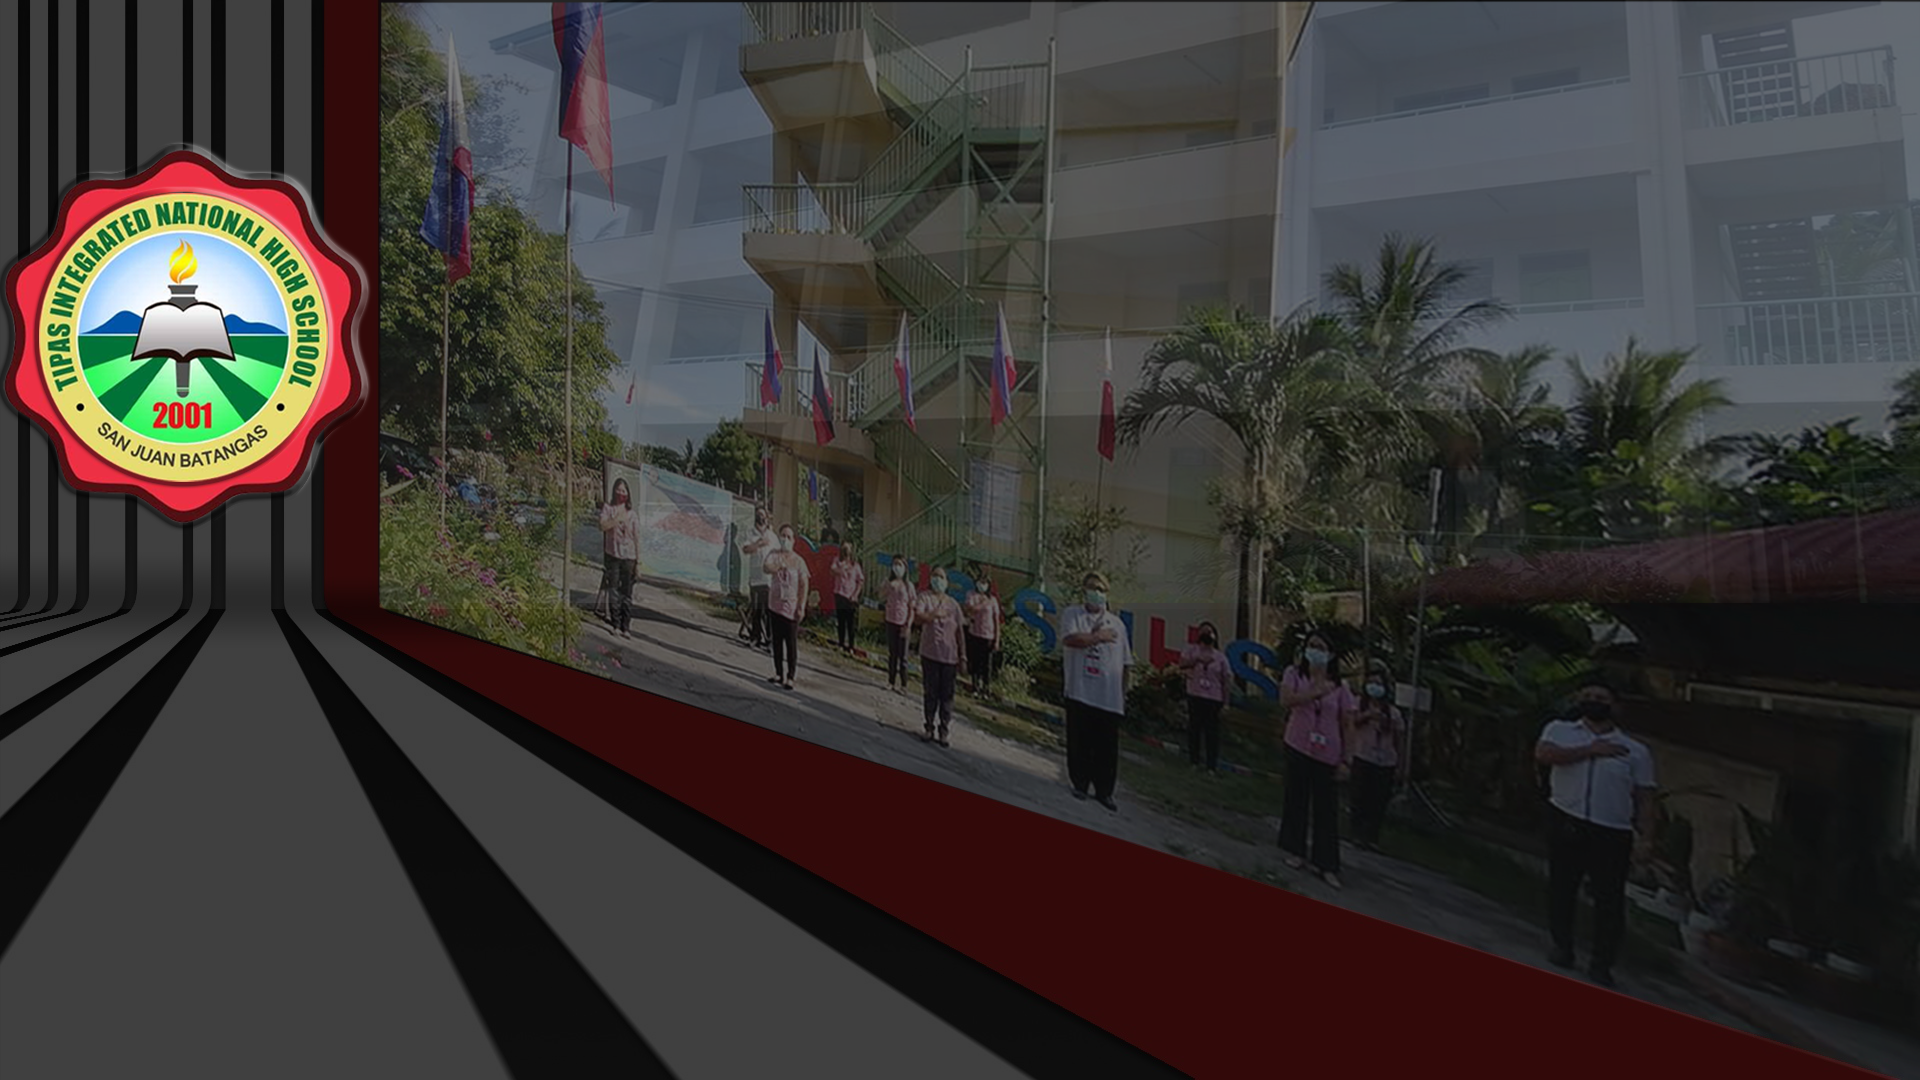
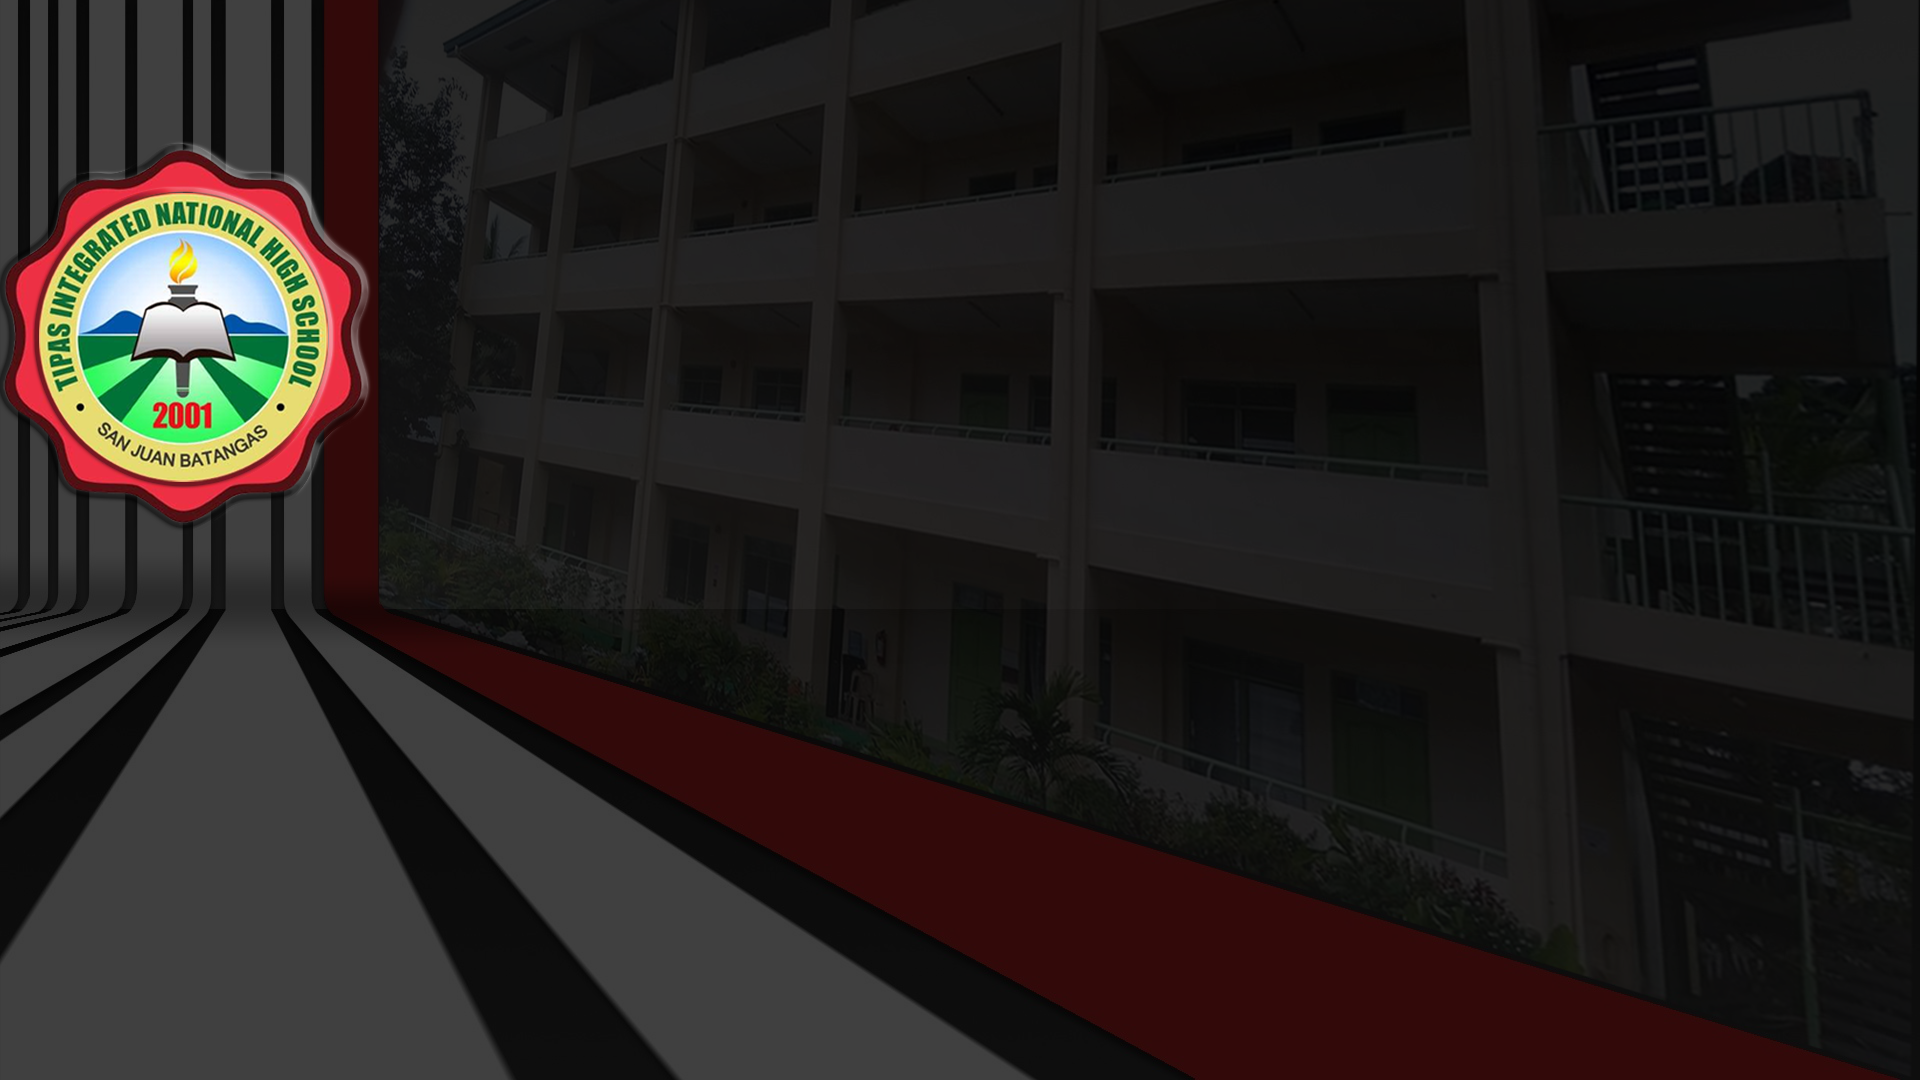
change the hover color of all the button

diff --git a/school-portal/resources/views/welcome.blade.php b/school-portal/resources/views/welcome.blade.php
@@ -15,7 +15,7 @@
 </div>
 
 
-<section class="dark:bg-[#151823] py-4">
+<!-- <section class="dark:bg-[#151823] py-4">
     <div class="flex flex-col items-center text-center">
         <h2 class="inline-block text-lg md:text-2xl px-4 text-sky-50 bg-[#004AAD] bg-opacity-90 dark:bg-[#222738] dark:text-sky-500 py-1 mb-2 rounded-md font-light">
             Philosophy
@@ -62,75 +62,14 @@
 
         </p>
     </div>
-</section>
+</section> -->
 
 
 {{-- Features of the website --}}
 
 {{-- Carousel --}}
 
-<section class="w-full pl-4 pr-4  bg-[#012560] dark:bg-[#222738] border-y-2 dark:border-gray-500 py-5 bg-opacity-90">
- 
-    
-    <div class="w-full flex items-center justify-center"   x-data="{ activeSlide: 1, slides: [1, 2, 3, 4, 5] }"
-          
-            x-if="{activeSlide = activeSlide === slides.length ? 1 : activeSlide + 1}"
-            class="px-10">
-        <div class="relative ">
-            <!-- Slides -->
-            <div x-show="activeSlide === 1"
-            x-transition:enter.duration.300ms>
-            <!-- Slide -->
-                <img src='/images/pic1.webp' class="relative block w-full h-96 object-cover rounded-md" alt="carousel_img">
-            </div>
 
-            <div x-show="activeSlide === 2"
-            x-transition:enter.duration.300ms>
-            <!-- Slide -->
-                <img src='/images/pic5.webp' class="relative block w-full h-96 object-cover rounded-md" alt="carousel_img">
-            </div>
-            
-            <div x-show="activeSlide === 3"
-            x-transition:enter.duration.300ms>
-            <!-- Slide -->
-                <img src='/images/pic2.webp' class="relative block w-full h-96 object-cover rounded-md" alt="carousel_img">
-            </div>
-
-            <div x-show="activeSlide === 4"
-            x-transition:enter.duration.300ms>
-            <!-- Slide -->
-                <img src='/images/pic3.webp' class="relative block w-full h-96 object-cover rounded-md" alt="carousel_img">
-            </div>
-
-            <div x-show="activeSlide === 5"
-            x-transition:enter.duration.300ms>
-            <!-- Slide -->
-                <img src='/images/pic4.webp' class="relative block w-full h-96 object-cover rounded-md" alt="carousel_img">
-            </div>
-
-            <!-- Prev/Next arrow buttons -->
-            <div class="absolute top-2/4 h-full w-full ">
-                <div class="flex justify-between">
-                    <button class="text-[#012560] bg-gray-100 bg-opacity-50 h-12 w-12 bg-color-transparent cursor-pointer" x-on:click="activeSlide = activeSlide === 1 ? slides.length : activeSlide - 1">
-                        <svg xmlns="http://www.w3.org/2000/svg" viewBox="0 0 24 24" fill="currentColor" class="w-6 h-6  mx-auto">
-                            <path fill-rule="evenodd" d="M7.28 7.72a.75.75 0 010 1.06l-2.47 2.47H21a.75.75 0 010 1.5H4.81l2.47 2.47a.75.75 0 11-1.06 1.06l-3.75-3.75a.75.75 0 010-1.06l3.75-3.75a.75.75 0 011.06 0z" clip-rule="evenodd" />
-                        </svg>
-                    </button>
-
-                    <button class="text-[#012560] bg-gray-100 bg-opacity-50 h-12 w-12 bg-color-transparent cursor-pointer" x-on:click="activeSlide = activeSlide === slides.length ? 1 : activeSlide + 1"
-                    >
-                        <svg xmlns="http://www.w3.org/2000/svg" viewBox="0 0 24 24" fill="currentColor" class="w-6 h-6  mx-auto">
-                            <path fill-rule="evenodd" d="M16.72 7.72a.75.75 0 011.06 0l3.75 3.75a.75.75 0 010 1.06l-3.75 3.75a.75.75 0 11-1.06-1.06l2.47-2.47H3a.75.75 0 010-1.5h16.19l-2.47-2.47a.75.75 0 010-1.06z" clip-rule="evenodd" />
-                        </svg>
-                    </button>
-                </div>
-            </div>
-
-
-        </div>
-        
-    </div>
-</section>
 
 
 
@@ -139,20 +78,20 @@
 {{-- One of the main features --}}
 {{-- <section class="dark:bg-[#151823] flex flex-col md:flex-row justify-between items-center px-10 md:px-15 lg:px-20 pt-1 pb-4 md:gap-10"> --}}
 
-<section class="dark:bg-[#151823] md:w-full flex flex-col p-5 items-center px-5 md:px-12.5 lg:px-20 ">
+<!-- <section class="dark:bg-[#151823] md:w-full flex flex-col p-5 items-center px-5 md:px-12.5 lg:px-20 "> -->
     {{-- Picture of the one of the main features --}}
-    <div class="col-span-2 md:col-span-1 w-full flex items-center justify-center ">
+    <!-- <div class="col-span-2 md:col-span-1 w-full flex items-center justify-center ">
         <iframe width="560" height="315" src="https://www.youtube.com/embed/hatnUegeXMQ" title="YouTube video player" frameborder="0" allow="accelerometer; autoplay; clipboard-write; encrypted-media; gyroscope; picture-in-picture" allowfullscreen></iframe>
-    </div>
+    </div> -->
 
    
-</section>
+<!-- </section> -->
 
  {{-- Short description about it and about button --}}
- <section class=" dark:text-[#FFFFFF] dark:bg-[#151823] text-md  md:w-full ">
+ <!-- <section class=" dark:text-[#FFFFFF] dark:bg-[#151823] text-md  md:w-full ">
     <p class="dark:text-[#FFFFFF] my-2 lg:my-10 xl:mb-7 text-md text-center flex items-center justify-center pl-4 pr-4">Inspired with the strength of its vision and its educational philosophy of the K-12 program, the school addressed itself to provide educational opportunities to every Filipino, develop among its administrations, faculty, support personnel and the studentry its moral and spiritual values, self-discipline, especially the performance task of the K-12 program, cares for the environment and demonstrates pride in being a Filipino. </p>
    
- </section>
+ </section> -->
 
 
 </div>

diff --git a/school-portal/resources/views/livewire/gradesectiondropdown.blade.php b/school-portal/resources/views/livewire/gradesectiondropdown.blade.php
@@ -3,7 +3,7 @@
     <div class="form-item mb-4">
         <label for="grade" class="text-md">Grade</label>
    
-            <select wire:model="selectedGrade" class="w-full appearance-none text-black text-opacity-70 rounded shadow py-1 px-2 focus:outline-none focus:shadow-outline focus:border-blue-200 dark:bg-gray-600 dark:text-white" id="grade" name="grade" required>
+            <select wire:model="selectedGrade" class="w-full appearance-none text-black text-opacity-70 rounded shadow py-1 px-2 focus:outline-none focus:shadow-outline focus:border-red-200 dark:bg-gray-600 dark:text-white" id="grade" name="grade" required>
                 <option value="" selected>Choose</option>
                 @foreach($grades as $grade)
                     <option value="{{ $grade->id }}" @if (old('grade') == "{{ $grade->id }}") {{ 'selected' }} @endif>{{ $grade->name }}</option>

diff --git a/school-portal/resources/views/layouts/navbarfooter.blade.php b/school-portal/resources/views/layouts/navbarfooter.blade.php
@@ -117,12 +117,12 @@
         {{-- content goes here --}}
         @yield('register')
 
-    <footer class="bg-[#001F52] dark:bg-[#222738] py-5">
+    <footer class="bg-[#282828] dark:bg-[#222738] py-5">
 
         <div class="flex flex-col justify-center items-center mx-10 md:mx-0">
-            <a href="#">
+            <!-- <a href="#">
                 <img src="/images/logo.png" alt="main logo" class="max-h-32">
-            </a>
+            </a> -->
             <p class="text-white text-center font-light py-3">For any concern, reach us in any of our social contact links below.</p>
             <div class="flex flex-row justify-end gap-4 py-2">
                 {{-- <a href="https://mail.google.com/mail/u/0/#inbox"><img src="/images/gmail-logo.png" alt="Gmail" class="max-h-8 cursor-pointer duration-300  hover:scale-110"></a> --}}

diff --git a/school-portal/resources/views/pages/student/add-student.blade.php b/school-portal/resources/views/pages/student/add-student.blade.php
@@ -49,14 +49,14 @@
                     file:text-md file:font-medium
                     file:bg-gre file:text-slate-50
                     hover:file:cursor-pointer hover:file:bg-gre
-                    hover:file:text-blue-700
+                    hover:file:text-red-700
                     hover:bg-gre" id="photo" name="photo" required>
                 </label>
             </div>
 
      
      
-            <button type='submit' class=" w-full bg-gre hover:bg-gre text-sm md:text-md  mt-6 hover:text-blue-700 text-slate-50 border-gray-200 rounded p-2 pt-2 px-10 shadow-lg">
+            <button type='submit' class=" w-full bg-gre hover:bg-gre text-sm md:text-md  mt-6 hover:text-red-700 text-slate-50 border-gray-200 rounded p-2 pt-2 px-10 shadow-lg">
                 Save
             </button>
             </div>

diff --git a/school-portal/resources/views/components/button.blade.php b/school-portal/resources/views/components/button.blade.php
@@ -6,13 +6,13 @@
 
     switch ($variant) {
         case 'primary':
-            $variantClasses = 'bg-gre text-white hover:bg-blue-700 focus:ring-gre';
+            $variantClasses = 'bg-gre text-white hover:bg-red-900 focus:ring-gre';
         break;
         case 'secondary':
             $variantClasses = 'bg-gre text-white hover:bg-gray-700 focus:ring-gre dark:text-gray-400 dark:bg-dark-eval-1 dark:hover:bg-dark-eval-2 dark:hover:text-gray-200';
         break;
         case 'success':
-            $variantClasses = 'bg-green-500 text-white hover:bg-blue-500 focus:ring-green-500';
+            $variantClasses = 'bg-green-500 text-white hover:bg-red-500 focus:ring-green-500';
         break;
         case 'danger':
             $variantClasses = 'bg-red-500 text-white hover:bg-red-600 focus:ring-red-500';

diff --git a/school-portal/resources/views/layouts/guest.blade.php b/school-portal/resources/views/layouts/guest.blade.php
@@ -25,7 +25,7 @@
 </head>
 
 <body>
-    <div class="font-sans antialiased h-screen w-full  bg-no-repeat bg-cover bg-center" x-data="mainState" :class="{dark: isDarkMode}" x-cloak style="background-image: url({{ url('images/background1.png') }})">
+    <div class="font-sans antialiased h-screen w-full  bg-no-repeat bg-cover bg-center" x-data="mainState" :class="{dark: isDarkMode}" x-cloak style="background-image: url({{ url('images/background.webp') }})">
         
         <div class="flex flex-col min-h-screen text-gray-900   dark:text-gray-200" >
             {{ $slot }}

diff --git a/school-portal/resources/views/components/sidebar/link.blade.php b/school-portal/resources/views/components/sidebar/link.blade.php
@@ -2,7 +2,7 @@
 
 @php
    
-    $isActiveClasses =  $isActive ? 'text-white bg-gre shadow-lg hover:bg-gre-700' : 'text-white hover:text-blue-700 hover:bg-gre dark:hover:text-gray-300 dark:hover:bg-dark-eval-2';  
+    $isActiveClasses =  $isActive ? 'text-white bg-gre shadow-lg hover:bg-gre-700' : 'text-white hover:text-red-700 hover:bg-gre dark:hover:text-gray-300 dark:hover:bg-dark-eval-2';  
    
 
     $classes = 'flex-shrink-0 flex items-center gap-2 p-2 transition-colors rounded-md overflow-hidden ' . $isActiveClasses;
